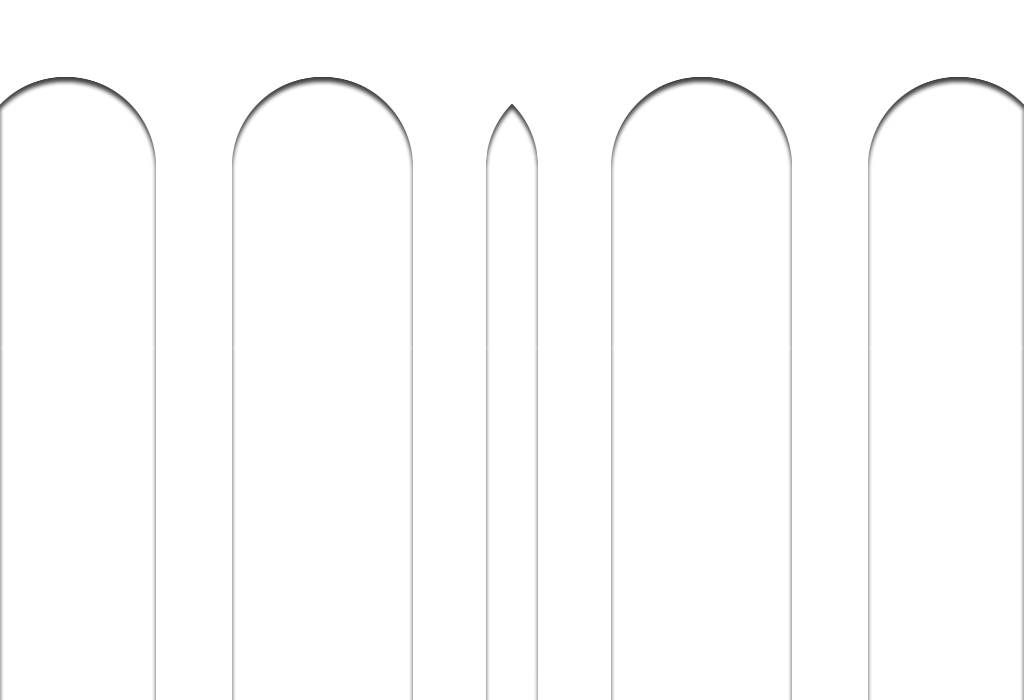
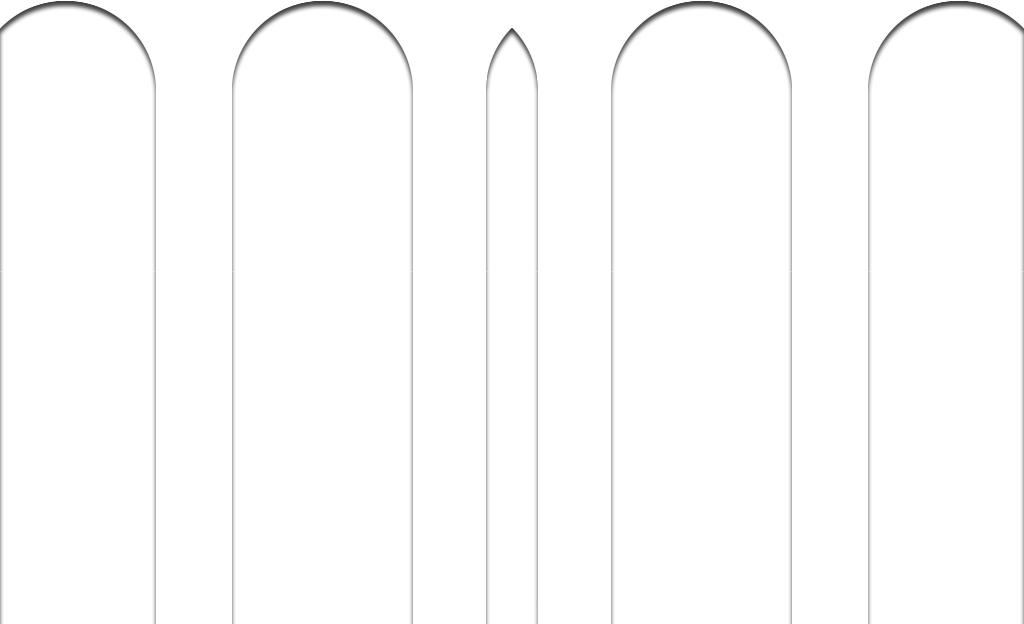
fixed sock saving issues

diff --git a/index.html b/index.html
@@ -157,7 +157,7 @@
 					<img id="heightMapSrc" width="512", height="1024">
 					<canvas id="normalMapCanvas" width="512" height="1024"></canvas>
                 </div>
-				<!-- <canvas id="tempCanvas" style="border:1px solid blue;"></canvas> -->
+				<!-- <canvas id="tempCanvas" width="1024" height="512" style="border:1px solid blue;"></canvas> -->
 				<div id="canvasContainer" style="position:absolute; height:828px; width:768px;">
 					<div id="sockContainer" style="background-color: red;">
 						<canvas id="sockCanvas" width="1024" height="1024" style="position:absolute; top:0; float:left; z-index:1;"></canvas>
@@ -2165,7 +2165,14 @@
                                                 <td class="checkCell"><input type="checkbox" id="stirrupToggle"></td>
                                                 <td>
 													<label>Sanitary Sock: </label>
-													<input type="range" class="range" id="sockHeight" value=0 min="-210" max="400">
+													<input type="range" class="range" id="sockHeight" value=0 min="-474" max="125" list="markers" style="width:100%;">
+													<datalist id="markers">
+														<option value="-290"></option>
+														<option value="-218"></option>
+														<option value="-145"></option>
+														<option value="-73"></option>
+														<option value="0"></option>
+													  </datalist>
 												</td>
                                                 <td style="text-align:right;">
                                                     <input class="selector sockSelector" type="text" id="stirrupFill" data-element="stirrupFill">
@@ -2784,6 +2791,11 @@
 		selection:false,
 		enableRetinaScaling:false
 	})
+
+/* 	var tempCanvas = new fabric.Canvas('tempCanvas',{
+		selection:false,
+		enableRetinaScaling:false
+	}) */
 
 	var normalMapCanvas = new fabric.Canvas('normalMapCanvas',{
 		selection:false,
@@ -8580,10 +8592,10 @@
 		let g = sockCanvas.getObjects('group').find(o => o.id === 'sockGroup')
 		let fill = g.getObjects("path").find(o => o.id === "stirrupFill")
 		let shadow = g.getObjects("image").find(o => o.id === "stirrupShadow")
-		fill.set("top",-261.749998 + parseInt($(this).val()))
-		fill.setCoords()
-		shadow.set("top",-341.749998 + parseInt($(this).val()))
-		shadow.setCoords()
+		fill.set("top",-113.375 + parseInt($(this).val()))
+		//fill.setCoords()
+		shadow.set("top",-113.375 + parseInt($(this).val()))
+		//shadow.setCoords()
 		sockCanvas.renderAll()
 	})
 
@@ -9164,7 +9176,7 @@
 			selectable: false,
 		});
 
-		stirrupFill = new fabric.Path("m 65.5,76.683594 c -25.76649,0 -49.018,10.768802 -65.5,28.050786 v 574.44921 h 156 v -512 c 0,-49.982 -40.519,-90.499996 -90.5,-90.499996 z m 256.92773,0 c -49.981,0 -90.5,40.517996 -90.5,90.499996 v 512 h 181 v -512 c 0,-49.982 -40.519,-90.499996 -90.5,-90.499996 z m 379.14454,0 c -49.981,0 -90.5,40.517996 -90.5,90.499996 v 512 h 181 v -512 c 0,-49.982 -40.519,-90.499996 -90.5,-90.499996 z m 256.92773,0 c -49.981,0 -90.5,40.517996 -90.5,90.499996 v 512 h 156 V 104.73438 C 1007.518,87.452396 984.26649,76.683594 958.5,76.683594 Z M 512,103.63477 c -16.12019,16.34127 -26.07227,38.78103 -26.07227,63.54882 v 512 H 512 538.07227 v -512 c 0,-24.76779 -9.95208,-47.20755 -26.07227,-63.54882 z",{
+/* 		stirrupFill = new fabric.Path("m 65.5,76.683594 c -25.76649,0 -49.018,10.768802 -65.5,28.050786 v 574.44921 h 156 v -512 c 0,-49.982 -40.519,-90.499996 -90.5,-90.499996 z m 256.92773,0 c -49.981,0 -90.5,40.517996 -90.5,90.499996 v 512 h 181 v -512 c 0,-49.982 -40.519,-90.499996 -90.5,-90.499996 z m 379.14454,0 c -49.981,0 -90.5,40.517996 -90.5,90.499996 v 512 h 181 v -512 c 0,-49.982 -40.519,-90.499996 -90.5,-90.499996 z m 256.92773,0 c -49.981,0 -90.5,40.517996 -90.5,90.499996 v 512 h 156 V 104.73438 C 1007.518,87.452396 984.26649,76.683594 958.5,76.683594 Z M 512,103.63477 c -16.12019,16.34127 -26.07227,38.78103 -26.07227,63.54882 v 512 H 512 538.07227 v -512 c 0,-24.76779 -9.95208,-47.20755 -26.07227,-63.54882 z",{
 			fill: initialSockColors['stirrupFill'],
 			top: 416,
 			id: 'stirrupFill',
@@ -9172,15 +9184,21 @@
 			originY: "top",
 			visible: false,
 			selectable: false
-		});
+		}); */
 
-		stirrupFill.setCoords()
+		stirrupFill = new fabric.Path("M 65.5 632.75 C 39.733513 632.75 16.482 643.51882 0 660.80078 L 0 1235.25 L 156 1235.25 L 156 723.25 C 156 673.26802 115.481 632.75 65.5 632.75 z M 322.42773 632.75 C 272.44673 632.75 231.92773 673.26802 231.92773 723.25 L 231.92773 1235.25 L 412.92773 1235.25 L 412.92773 723.25 C 412.92773 673.26802 372.40874 632.75 322.42773 632.75 z M 701.57227 632.75 C 651.59126 632.75 611.07227 673.26802 611.07227 723.25 L 611.07227 1235.25 L 792.07227 1235.25 L 792.07227 723.25 C 792.07227 673.26802 751.55327 632.75 701.57227 632.75 z M 958.5 632.75 C 908.519 632.75 868 673.26802 868 723.25 L 868 1235.25 L 1024 1235.25 L 1024 660.80078 C 1007.518 643.51882 984.26648 632.75 958.5 632.75 z M 512 659.70117 C 495.87979 676.04245 485.92773 698.48223 485.92773 723.25 L 485.92773 1235.25 L 512 1235.25 L 538.07227 1235.25 L 538.07227 723.25 C 538.07227 698.48223 528.12018 676.04245 512 659.70117 z ",{
+			fill: initialSockColors['stirrupFill'],
+			id: 'stirrupFill',
+			visible: false,
+			selectable: false
+		});
+		//stirrupFill.setCoords()
 
   		stirrupShadow = new fabric.Image.fromURL('./images/stirrup_shadow.png', function(oImg) {
 			oImg.set({
 				id: 'stirrupShadow',
 				visible: false,
-				top: 336
+				top: 631
 			})
 			sockGroup.addWithUpdate(oImg)
 			sockGroup.bringToFront(oImg)
@@ -9194,8 +9212,10 @@
 
 		sockCanvas.add(sockGroup)
 
+		let g = sockCanvas.getObjects().find(o => o.id === "sockGroup")
+		let o = g.getObjects().find(o => o.id === "stirrupFill")
+	
 		sockCanvas.renderAll()
-
 	}
  
 	// CANVAS INITIALIZE FUNCTIONS
@@ -13084,7 +13104,7 @@
 	})
 
 	$(".rangeButton").on("click",function(e) {
-		console.log("hello")
+	console.log("hello")
 		if ($(this).val() == "-") {
 			$(this).next().val(parseInt($(this).next().val())-1);
 			$("#"+$(this).data("span")).html($(this).next().val())
@@ -13818,11 +13838,15 @@
 			textLine += yearRange.split('_').join(' ')
 		}
 
-		let socks = sockCanvas.getObjects('group').find(o => o.id == "sockGroup")
-
-		ipcRenderer.send('save-socks', {
+ 		ipcRenderer.send('save-socks', {
 				text: textLine,
-				sockCanvas: socks.toDataURL(),
+				sockCanvas: sockCanvas.toDataURL({
+					format: 'png',
+					left: 1.5,
+					top: 257.5,
+					width: 1023,
+					height: 511
+				}),
 				name: fileName.split(' ').join('_').toLowerCase(),
 		})
 	})
@@ -14405,6 +14429,9 @@
 		fontCanvas.setDimensions({ width: 1024, height: 1024 });
     	fontCanvas.setZoom(1)
 
+		sockCanvas.setDimensions({ width: 1024, height: 1024 });
+    	sockCanvas.setZoom(1)
+
 		nameCanvas.clear()
 
 		var text = new fabric.Text(teamName.split('_').join(' '), {
@@ -14493,7 +14520,13 @@
 				pantsLogoCanvas: pantsLogoCanvas.toDataURL(),
 				pantsBelow: pantsBelow.toDataURL(),
 				fontCanvas: fontCanvas.toDataURL(),
-				sockCanvas: sockCanvas.getObjects('group').find(o => o.id == "sockGroup").toDataURL(),
+				sockCanvas: sockCanvas.toDataURL({
+					format: 'png',
+					left: 1.5,
+					top: 257.5,
+					width: 1023,
+					height: 511
+				}),
 				name: response.args.fileName.toLowerCase(),
 				showPlanket: response.args.showPlanket,
 				buttonPadSeams: response.args.buttonPadSeams,
@@ -14559,6 +14592,9 @@
 		fontCanvas.setBackgroundImage('./images/symbol_grid.png', fontCanvas.renderAll.bind(fontCanvas), {});
 		fontCanvas.setDimensions({ width: fontCanvas.getWidth() * 0.75, height: fontCanvas.getHeight() * 0.75 });
 		fontCanvas.setZoom(scaleRatio)
+
+		sockCanvas.setDimensions({ width: sockCanvas.getWidth() * 0.75, height: sockCanvas.getHeight() * 0.75 });
+		sockCanvas.setZoom(scaleRatio)
 
 		if (response.seamsVisible == true) {
 			seamsGroup.visible = true

diff --git a/main.js b/main.js
@@ -1373,8 +1373,8 @@ ipcMain.on('save-socks', (event, arg) => {
 		let socksLeft = await Jimp.read(sockCanvas)
 		let socksRight = await Jimp.read(sockCanvas)
 		let socksTexture = await Jimp.read(__dirname+"/images/socks_texture.png")
-		await socksLeft.crop(512,0,512,512).composite(socksTexture, 0, 0, {mode: Jimp.BLEND_MULTIPLY})
-		await socksRight.crop(0,0,512,512).composite(socksTexture, 0, 0, {mode: Jimp.BLEND_MULTIPLY})
+		await socksLeft.resize(1024,512).crop(511,0,511,511).resize(512,512).composite(socksTexture, 0, 0, {mode: Jimp.BLEND_MULTIPLY})
+		await socksRight.resize(1024,512).crop(0,0,511,511).resize(512,512).composite(socksTexture, 0, 0, {mode: Jimp.BLEND_MULTIPLY})
 		let socksLeftBuffer = await socksLeft.getBufferAsync(Jimp.MIME_PNG)
 		let socksRightBuffer = await socksRight.getBufferAsync(Jimp.MIME_PNG)
 		archive.append(socksLeftBuffer, {name: arg.name+"_left.png"})
@@ -1917,8 +1917,8 @@ ipcMain.on('save-uniform-zip', (event, arg) => {
 		let socksLeft = await Jimp.read(sockCanvas)
 		let socksRight = await Jimp.read(sockCanvas)
 		let socksTexture = await Jimp.read(__dirname+"/images/socks_texture.png")
-		await socksLeft.crop(512,0,512,512).composite(socksTexture, 0, 0, {mode: Jimp.BLEND_MULTIPLY})
-		await socksRight.crop(0,0,512,512).composite(socksTexture, 0, 0, {mode: Jimp.BLEND_MULTIPLY})
+		await socksLeft.resize(1024,512).crop(511,0,511,511).resize(512,512).composite(socksTexture, 0, 0, {mode: Jimp.BLEND_MULTIPLY})
+		await socksRight.resize(1024,512).crop(0,0,511,511).resize(512,512).composite(socksTexture, 0, 0, {mode: Jimp.BLEND_MULTIPLY})
 		let socksLeftBuffer = await socksLeft.getBufferAsync(Jimp.MIME_PNG)
 		let socksRightBuffer = await socksRight.getBufferAsync(Jimp.MIME_PNG)
 		archive.append(socksLeftBuffer, {name: "socks_"+arg.name+"_left.png"})
